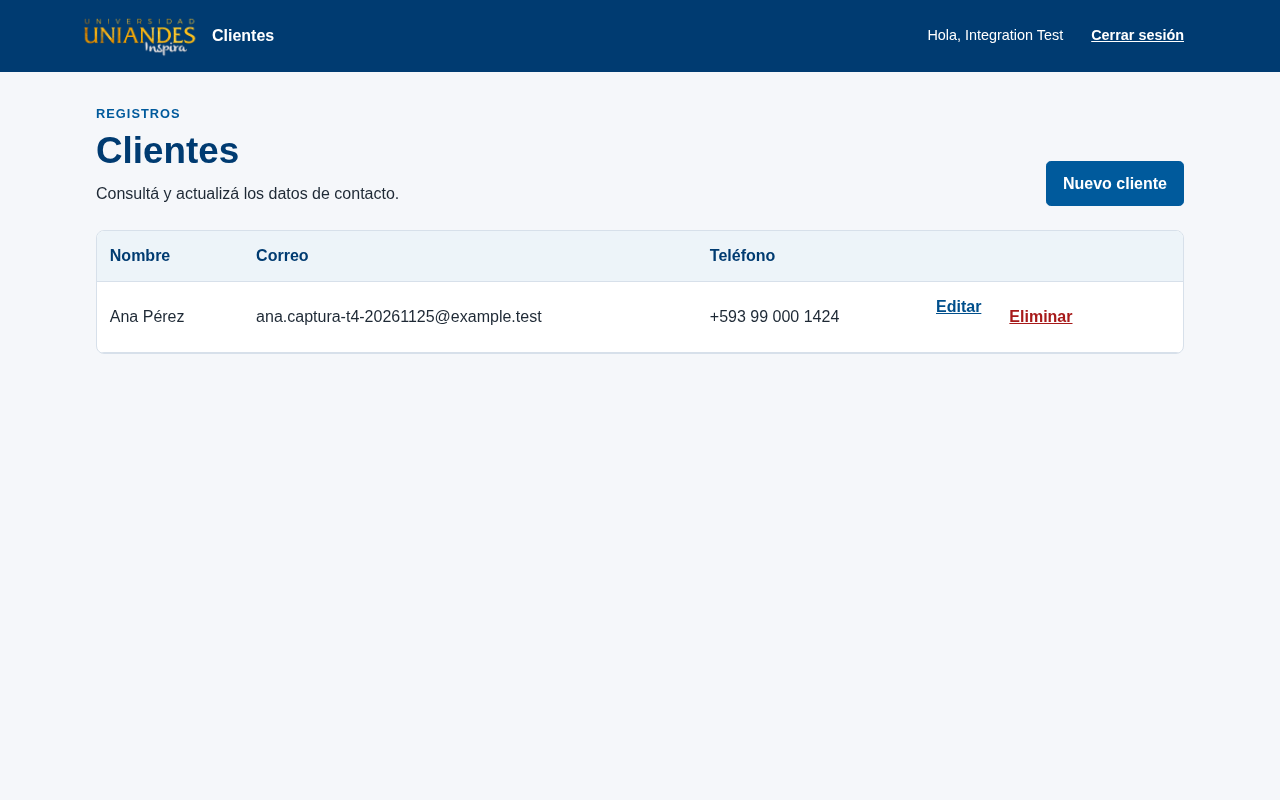
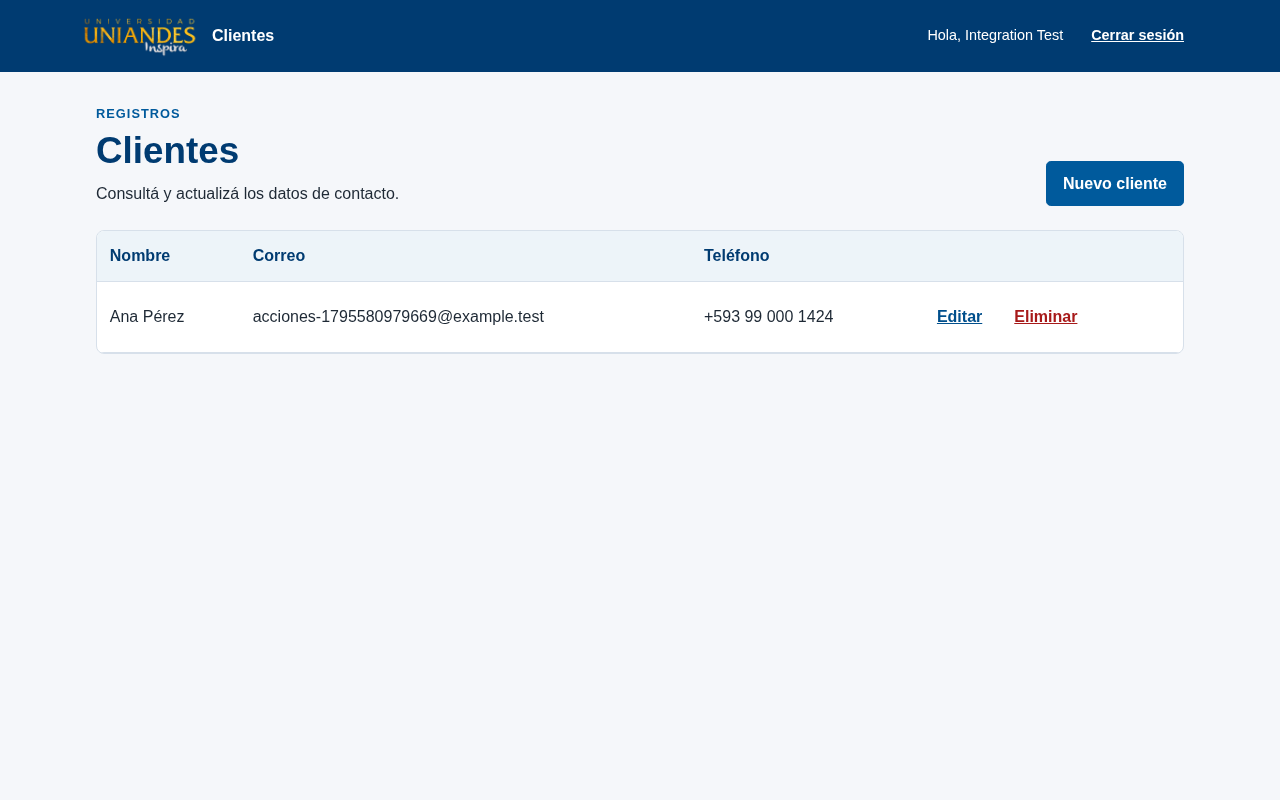
fix(seman5): align client actions and refresh screenshots

diff --git a/seman5/tests/actions.js b/seman5/tests/actions.js
@@ -1,0 +1,90 @@
+async page => {
+  const base = 'http://127.0.0.1:18086';
+  const email = `acciones-${Date.now()}@example.test`;
+  const checks = [];
+  let identifier;
+  const check = (condition, message) => {
+    if (!condition) throw new Error(message);
+    checks.push(message);
+  };
+  const api = async (method, path, data) => {
+    const cookies = await page.context().cookies(base);
+    const token = cookies.find(cookie => cookie.name === 'XSRF-TOKEN')?.value;
+    const response = await page.request.fetch(`${base}/api/${path}`, {
+      method,
+      data,
+      headers: token ? { 'X-XSRF-TOKEN': token } : {},
+    });
+    if (!response.ok()) throw new Error(`Fixture API ${method} ${path}: ${response.status()}`);
+    return response.json();
+  };
+  const measure = async element => element.evaluate(control => {
+    const walker = document.createTreeWalker(control, NodeFilter.SHOW_TEXT);
+    let text;
+    while ((text = walker.nextNode()) && !text.textContent.trim()) {}
+    if (!text) throw new Error('Action has no visible label');
+    const range = document.createRange();
+    range.selectNodeContents(text);
+    const label = range.getBoundingClientRect();
+    const box = control.getBoundingClientRect();
+    const style = getComputedStyle(control);
+    return {
+      textY: label.y + label.height / 2, y: box.y, height: box.height,
+      display: style.display, alignItems: style.alignItems,
+      lineHeight: style.lineHeight, font: style.font,
+    };
+  });
+  try {
+    await page.context().clearCookies();
+    await api('GET', 'auth.php');
+    await api('POST', 'auth.php', {
+      correo: 'integration@example.test', password: 'Public-Test-Fixture-2026!',
+    });
+    identifier = (await api('POST', 'api.php', {
+      nombre: 'Ana', apellido: 'Pérez', correo: email, telefono: '+593 99 000 1424',
+    })).id;
+    await page.goto(`${base}/clientes`);
+    const row = page.getByRole('row').filter({ hasText: email });
+    await row.waitFor();
+    for (const width of [1280, 390]) {
+      await page.setViewportSize({ width, height: width === 390 ? 844 : 800 });
+      const edit = row.getByRole('link', { name: 'Editar', exact: true });
+      const remove = row.getByRole('button', { name: 'Eliminar', exact: true });
+      const left = await measure(edit);
+      const right = await measure(remove);
+      check(Math.abs(left.textY - right.textY) <= 1,
+        `${width}px: labels must share a vertical center; Editar=${JSON.stringify(left)}, Eliminar=${JSON.stringify(right)}`);
+      check(Math.abs(left.height - right.height) <= 1 && left.height >= 44,
+        `${width}px: action controls share a height of at least 44px`);
+      check(!(await page.evaluate(() => document.documentElement.scrollWidth > innerWidth)),
+        `${width}px: page has no horizontal overflow`);
+      await page.screenshot({
+        path: `aplicaciones-web/seman5/docs/${width === 390 ? 'mobile' : 'clientes'}.png`,
+        fullPage: true,
+      });
+    }
+    await page.setViewportSize({ width: 1280, height: 800 });
+    await row.getByRole('link', { name: 'Editar', exact: true }).click();
+    await page.getByLabel('Nombre', { exact: true }).waitFor();
+    check(await page.getByLabel('Nombre', { exact: true }).inputValue() === 'Ana',
+      'Editar still navigates to the populated edit form');
+    await page.getByRole('link', { name: '← Volver a clientes' }).click();
+    await row.getByRole('button', { name: 'Eliminar', exact: true }).click();
+    check((await api('GET', `api.php?id=${identifier}`)).correo === email,
+      'First Eliminar click preserves the record and asks for confirmation');
+    await row.getByRole('button', { name: 'Confirmar eliminación', exact: true }).click();
+    await row.waitFor({ state: 'detached' });
+    const remaining = await api('GET', 'api.php');
+    check(!remaining.some(client => String(client.id) === String(identifier)),
+      'Confirmed Eliminar still deletes only the fixture record');
+    identifier = undefined;
+    return { status: 'PASS', checks };
+  } finally {
+    if (identifier !== undefined) {
+      const fixture = await api('GET', `api.php?id=${identifier}`);
+      if (fixture.correo !== email) throw new Error('Unexpected fixture identity; nothing deleted');
+      await api('DELETE', `api.php?id=${identifier}`);
+    }
+    await api('DELETE', 'auth.php');
+  }
+}

diff --git a/seman5/frontend/src/app/components/clientes/clientes.component.ts b/seman5/frontend/src/app/components/clientes/clientes.component.ts
@@ -7,6 +7,7 @@ import { ClienteService } from '../../services/cliente.service';
 @Component({
   selector: 'app-clientes',
   imports: [RouterLink],
+  styleUrl: './clientes.component.css',
   template: ` <section class="page" aria-labelledby="clientes-title">
     <div class="page-heading">
       <div>
@@ -49,11 +50,13 @@ import { ClienteService } from '../../services/cliente.service';
                 <td data-label="Nombre">{{ cliente.nombre }} {{ cliente.apellido }}</td>
                 <td data-label="Correo">{{ cliente.correo }}</td>
                 <td data-label="Teléfono">{{ cliente.telefono }}</td>
-                <td class="actions">
-                  <a [routerLink]="['/clientes', cliente.id, 'editar']">Editar</a
-                  ><button type="button" class="link danger" (click)="confirmarEliminar(cliente)">
-                    {{ confirmando() === cliente.id ? 'Confirmar eliminación' : 'Eliminar' }}
-                  </button>
+                <td class="actions-cell">
+                  <div class="actions">
+                    <a [routerLink]="['/clientes', cliente.id, 'editar']">Editar</a>
+                    <button type="button" class="link danger" (click)="confirmarEliminar(cliente)">
+                      {{ confirmando() === cliente.id ? 'Confirmar eliminación' : 'Eliminar' }}
+                    </button>
+                  </div>
                 </td>
               </tr>
             }

diff --git a/seman5/frontend/src/app/components/clientes/clientes.component.css b/seman5/frontend/src/app/components/clientes/clientes.component.css
@@ -1,0 +1,35 @@
+.actions-cell {
+  vertical-align: middle;
+}
+
+.actions {
+  align-items: center;
+  flex-wrap: wrap;
+  gap: 0.5rem;
+  padding: 0;
+}
+
+.actions a,
+.actions button {
+  align-items: center;
+  display: inline-flex;
+  justify-content: center;
+  min-height: 2.75rem;
+  padding: 0.5rem 0.75rem;
+  white-space: nowrap;
+}
+
+.actions a:hover,
+.actions button:hover {
+  background: #edf4f9;
+}
+
+@media (max-width: 600px) {
+  .actions-cell {
+    display: block;
+  }
+
+  .actions-cell::before {
+    content: none;
+  }
+}
